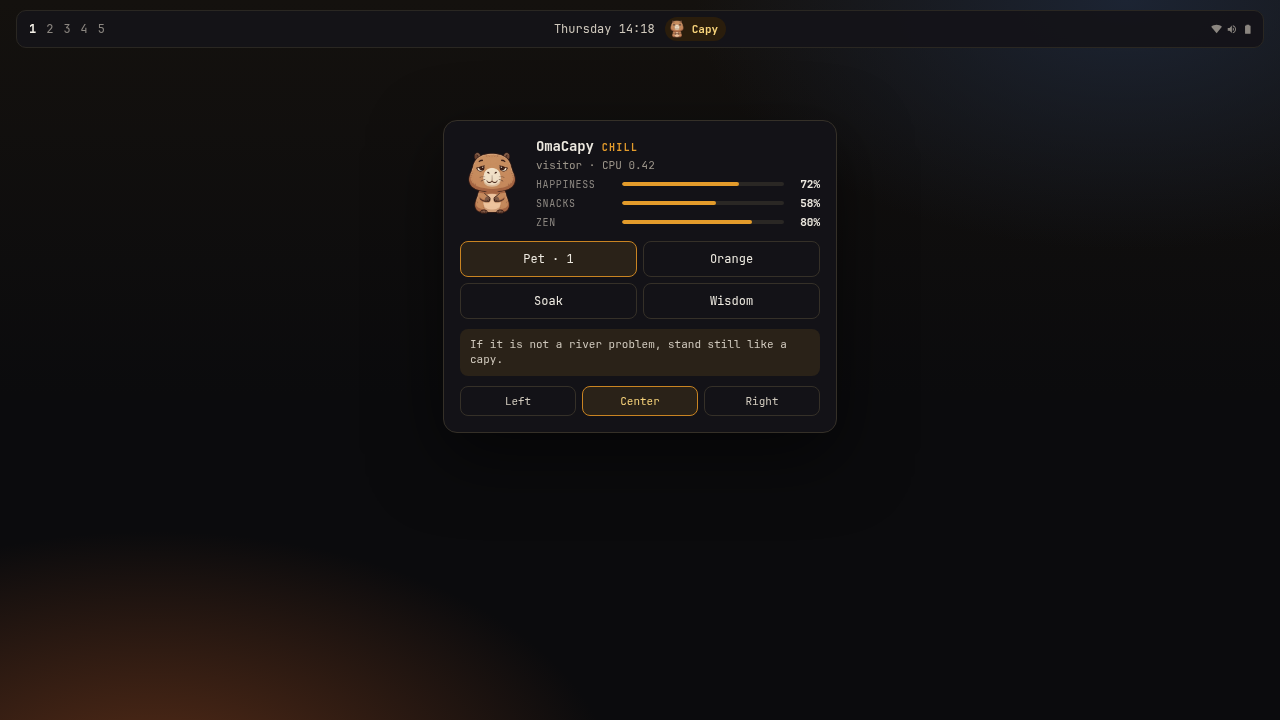
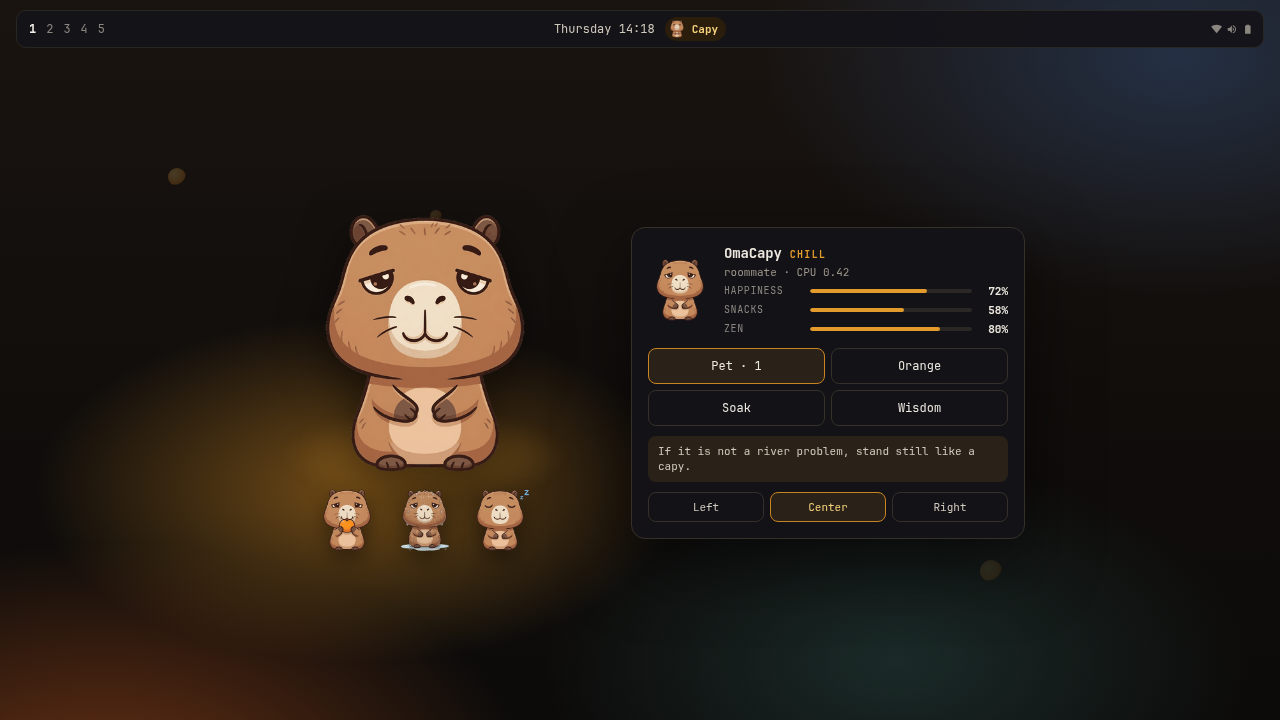
Replace the Stack store shot with a friendly roommate
The marketplace still served the old coding-hours preview.
This one puts the capy in front of the lounge instead.

diff --git a/scripts/preview.html b/scripts/preview.html
@@ -10,15 +10,25 @@
     body {
       font-family: JB, ui-monospace, monospace;
       color: #ece8df;
-      background: #0b0b0d;
+      background: #120e0b;
     }
     .desk {
       position: relative; width: 1280px; height: 720px;
       background:
-        radial-gradient(1100px 620px at 12% 110%, #5a2e18 0%, transparent 42%),
-        radial-gradient(900px 520px at 88% 0%, #1c2433 0%, transparent 48%),
-        linear-gradient(180deg, #14110e 0%, #0b0b0d 55%);
+        radial-gradient(520px 280px at 28% 68%, #c9842288 0%, transparent 62%),
+        radial-gradient(900px 520px at 8% 110%, #6a3214 0%, transparent 48%),
+        radial-gradient(800px 460px at 92% 8%, #243044 0%, transparent 52%),
+        radial-gradient(640px 360px at 70% 92%, #1a2a28 0%, transparent 55%),
+        linear-gradient(180deg, #1a1410 0%, #100d0b 58%, #0c0b0a 100%);
     }
+    .orb {
+      position: absolute; border-radius: 50%;
+      background: radial-gradient(circle at 35% 30%, #f6d27a, #e08a22 62%, transparent 70%);
+      opacity: 0.22; filter: blur(0.4px);
+    }
+    .orb.a { width: 18px; height: 18px; left: 168px; top: 168px; }
+    .orb.b { width: 12px; height: 12px; left: 430px; top: 210px; opacity: 0.16; }
+    .orb.c { width: 22px; height: 22px; left: 980px; top: 560px; opacity: 0.14; }
     .bar {
       position: absolute; left: 16px; right: 16px; top: 10px; height: 36px;
       display: grid; grid-template-columns: 1fr auto 1fr;
@@ -32,7 +42,7 @@
     .ws { display: flex; gap: 10px; color: #8b8680; font-size: 12px; }
     .ws b { color: #f3efe6; }
     .clock { color: #cfc8bc; font-size: 12px; }
-    .right { display: flex; align-items: center; justify-content: flex-end; gap: 10px; color: #8b8680; font-size: 11px; }
+    .right { display: flex; align-items: center; justify-self: end; gap: 10px; color: #8b8680; font-size: 11px; }
     .badge {
       display: flex; align-items: center; gap: 6px;
       height: 24px; padding: 0 8px 0 3px;
@@ -42,9 +52,31 @@
     }
     .badge img { width: 18px; height: 18px; object-fit: contain; }
 
+    .stage {
+      position: absolute; left: 0; right: 0; top: 46px; bottom: 0;
+      display: flex; align-items: center; justify-content: center; gap: 36px;
+    }
+    .friend { width: 340px; text-align: center; position: relative; }
+    .glow {
+      position: absolute; left: 50%; top: 58%;
+      width: 280px; height: 90px; margin-left: -140px;
+      background: radial-gradient(ellipse, #e39b2b66 0%, transparent 72%);
+      filter: blur(6px);
+    }
+    .friend > img {
+      position: relative;
+      width: 268px; height: 268px; object-fit: contain;
+      filter: drop-shadow(0 18px 24px #0008);
+    }
+    .moods { margin-top: 6px; display: flex; justify-content: center; gap: 14px; }
+    .moods figure { margin: 0; }
+    .moods img {
+      width: 64px; height: 64px; object-fit: contain;
+      filter: drop-shadow(0 8px 10px #0006);
+    }
+
     .panel {
-      position: absolute; left: 50%; top: 120px; width: 360px;
-      transform: translateX(-50%);
+      width: 360px;
       padding: 16px;
       border-radius: 14px;
       background: #141318f5;
@@ -91,6 +123,9 @@
 </head>
 <body>
   <div class="desk">
+    <div class="orb a"></div>
+    <div class="orb b"></div>
+    <div class="orb c"></div>
     <div class="bar">
       <div class="ws"><b>1</b><span>2</span><span>3</span><span>4</span><span>5</span></div>
       <div class="mid">
@@ -101,31 +136,42 @@
         <span></span><span></span><span></span>
       </div>
     </div>
-    <section class="panel">
-      <div class="hero">
+    <div class="stage">
+      <div class="friend">
+        <div class="glow"></div>
         <img src="../capy.png" alt="">
-        <div class="copy">
-          <div class="title-row">
-            <div class="title">OmaCapy</div>
-            <div class="mood">CHILL</div>
-          </div>
-          <div class="meta">visitor  ·  CPU 0.42</div>
-          <div class="meter"><div class="k">HAPPINESS</div><div class="track"><div class="fill" style="width:72%"></div></div><div class="v">72%</div></div>
-          <div class="meter"><div class="k">SNACKS</div><div class="track"><div class="fill" style="width:58%"></div></div><div class="v">58%</div></div>
-          <div class="meter"><div class="k">ZEN</div><div class="track"><div class="fill" style="width:80%"></div></div><div class="v">80%</div></div>
+        <div class="moods">
+          <figure><img src="../capy-munching.png" alt=""></figure>
+          <figure><img src="../capy-soaked.png" alt=""></figure>
+          <figure><img src="../capy-napping.png" alt=""></figure>
         </div>
       </div>
-      <div class="acts">
-        <div class="act sel">Pet  ·  1</div>
-        <div class="act">Orange</div>
-        <div class="act">Soak</div>
-        <div class="act">Wisdom</div>
-      </div>
-      <div class="quote">If it is not a river problem, stand still like a capy.</div>
-      <div class="sides">
-        <span>Left</span><span class="on">Center</span><span>Right</span>
-      </div>
-    </section>
+      <section class="panel">
+        <div class="hero">
+          <img src="../capy.png" alt="">
+          <div class="copy">
+            <div class="title-row">
+              <div class="title">OmaCapy</div>
+              <div class="mood">CHILL</div>
+            </div>
+            <div class="meta">roommate  ·  CPU 0.42</div>
+            <div class="meter"><div class="k">HAPPINESS</div><div class="track"><div class="fill" style="width:72%"></div></div><div class="v">72%</div></div>
+            <div class="meter"><div class="k">SNACKS</div><div class="track"><div class="fill" style="width:58%"></div></div><div class="v">58%</div></div>
+            <div class="meter"><div class="k">ZEN</div><div class="track"><div class="fill" style="width:80%"></div></div><div class="v">80%</div></div>
+          </div>
+        </div>
+        <div class="acts">
+          <div class="act sel">Pet  ·  1</div>
+          <div class="act">Orange</div>
+          <div class="act">Soak</div>
+          <div class="act">Wisdom</div>
+        </div>
+        <div class="quote">If it is not a river problem, stand still like a capy.</div>
+        <div class="sides">
+          <span>Left</span><span class="on">Center</span><span>Right</span>
+        </div>
+      </section>
+    </div>
   </div>
 </body>
 </html>
